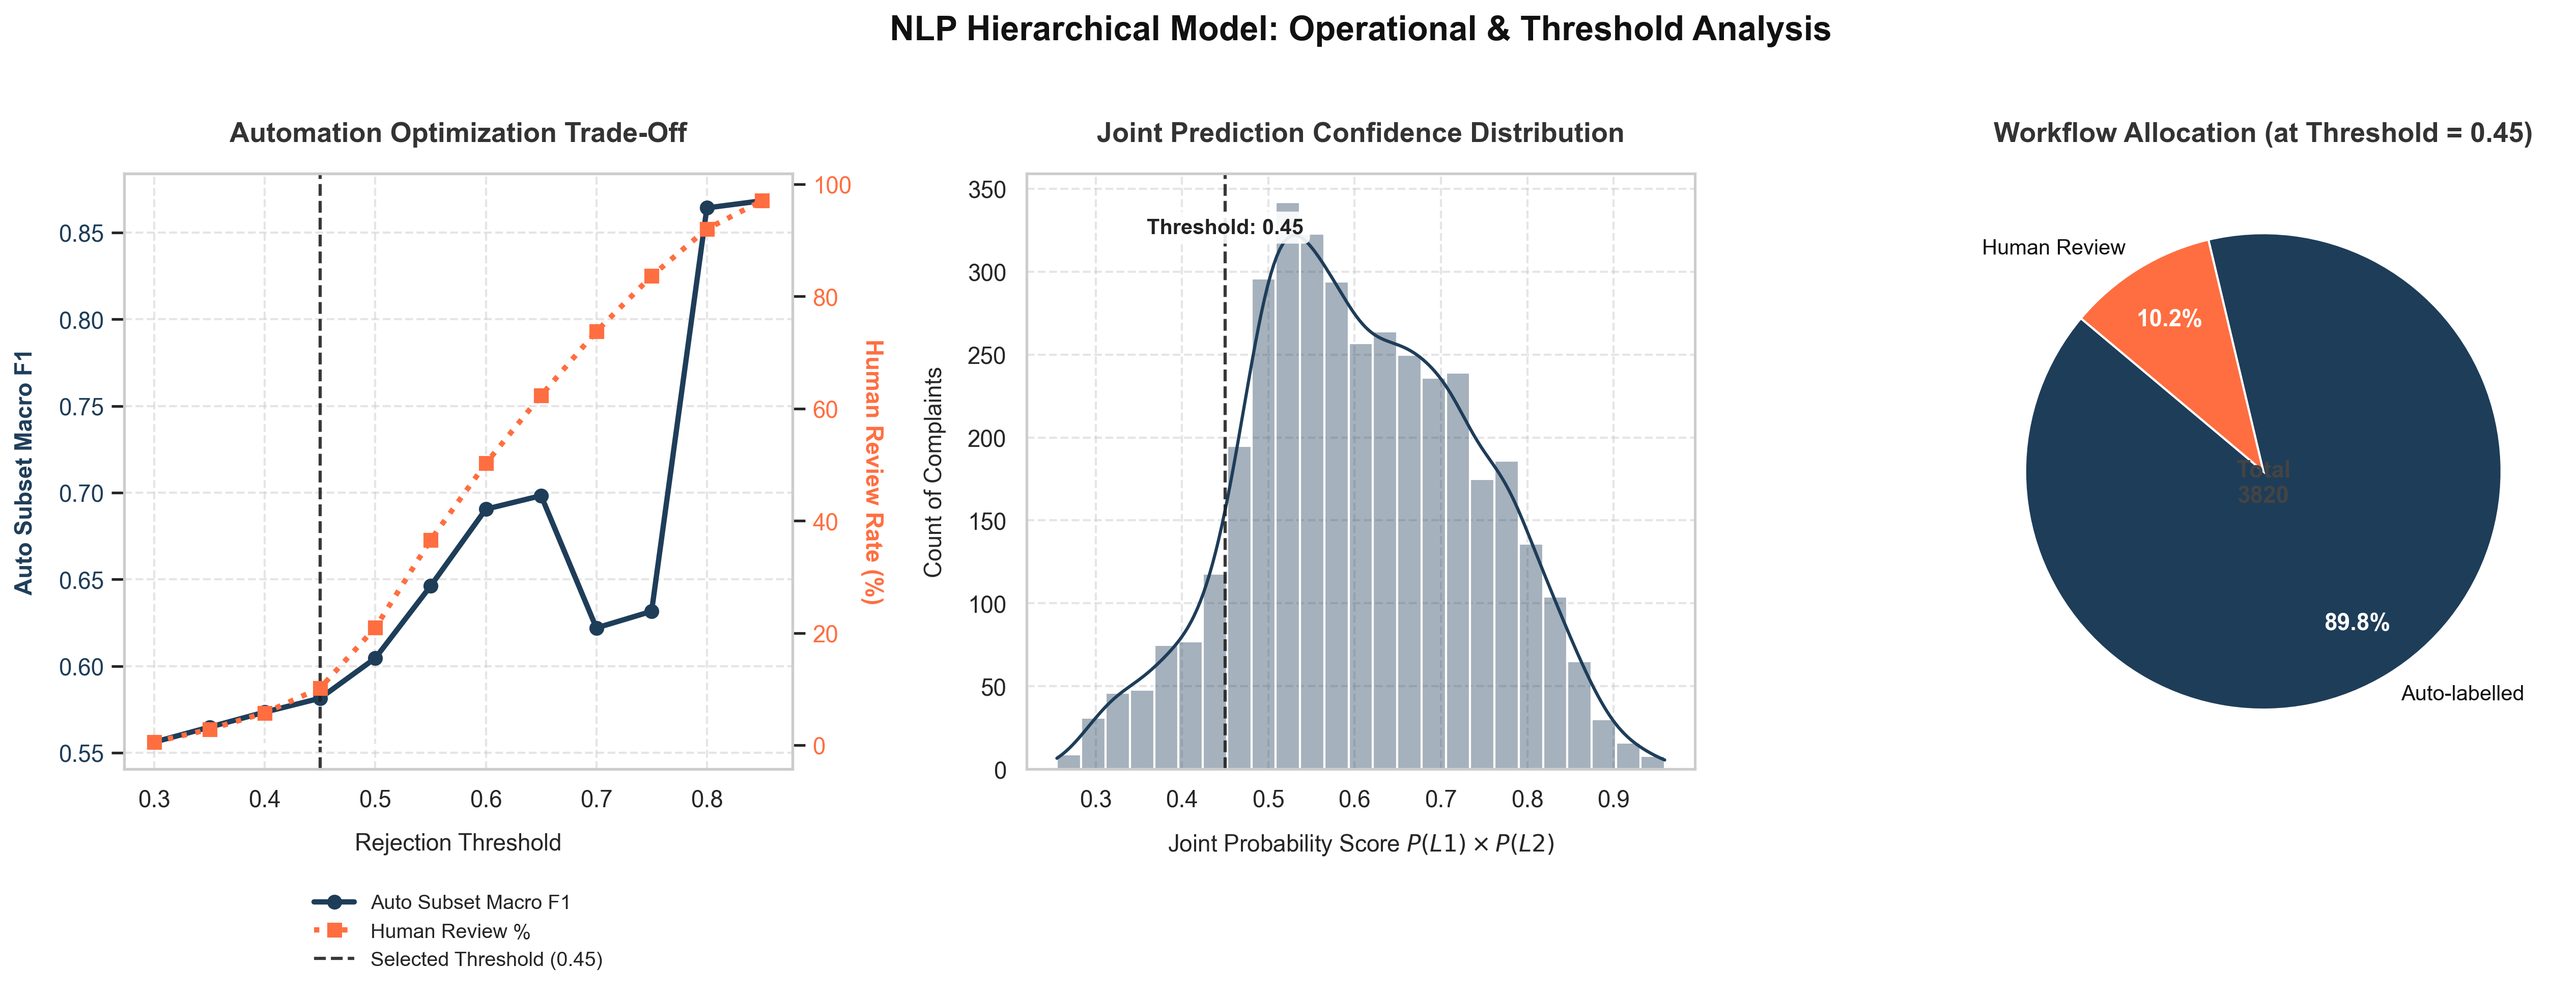
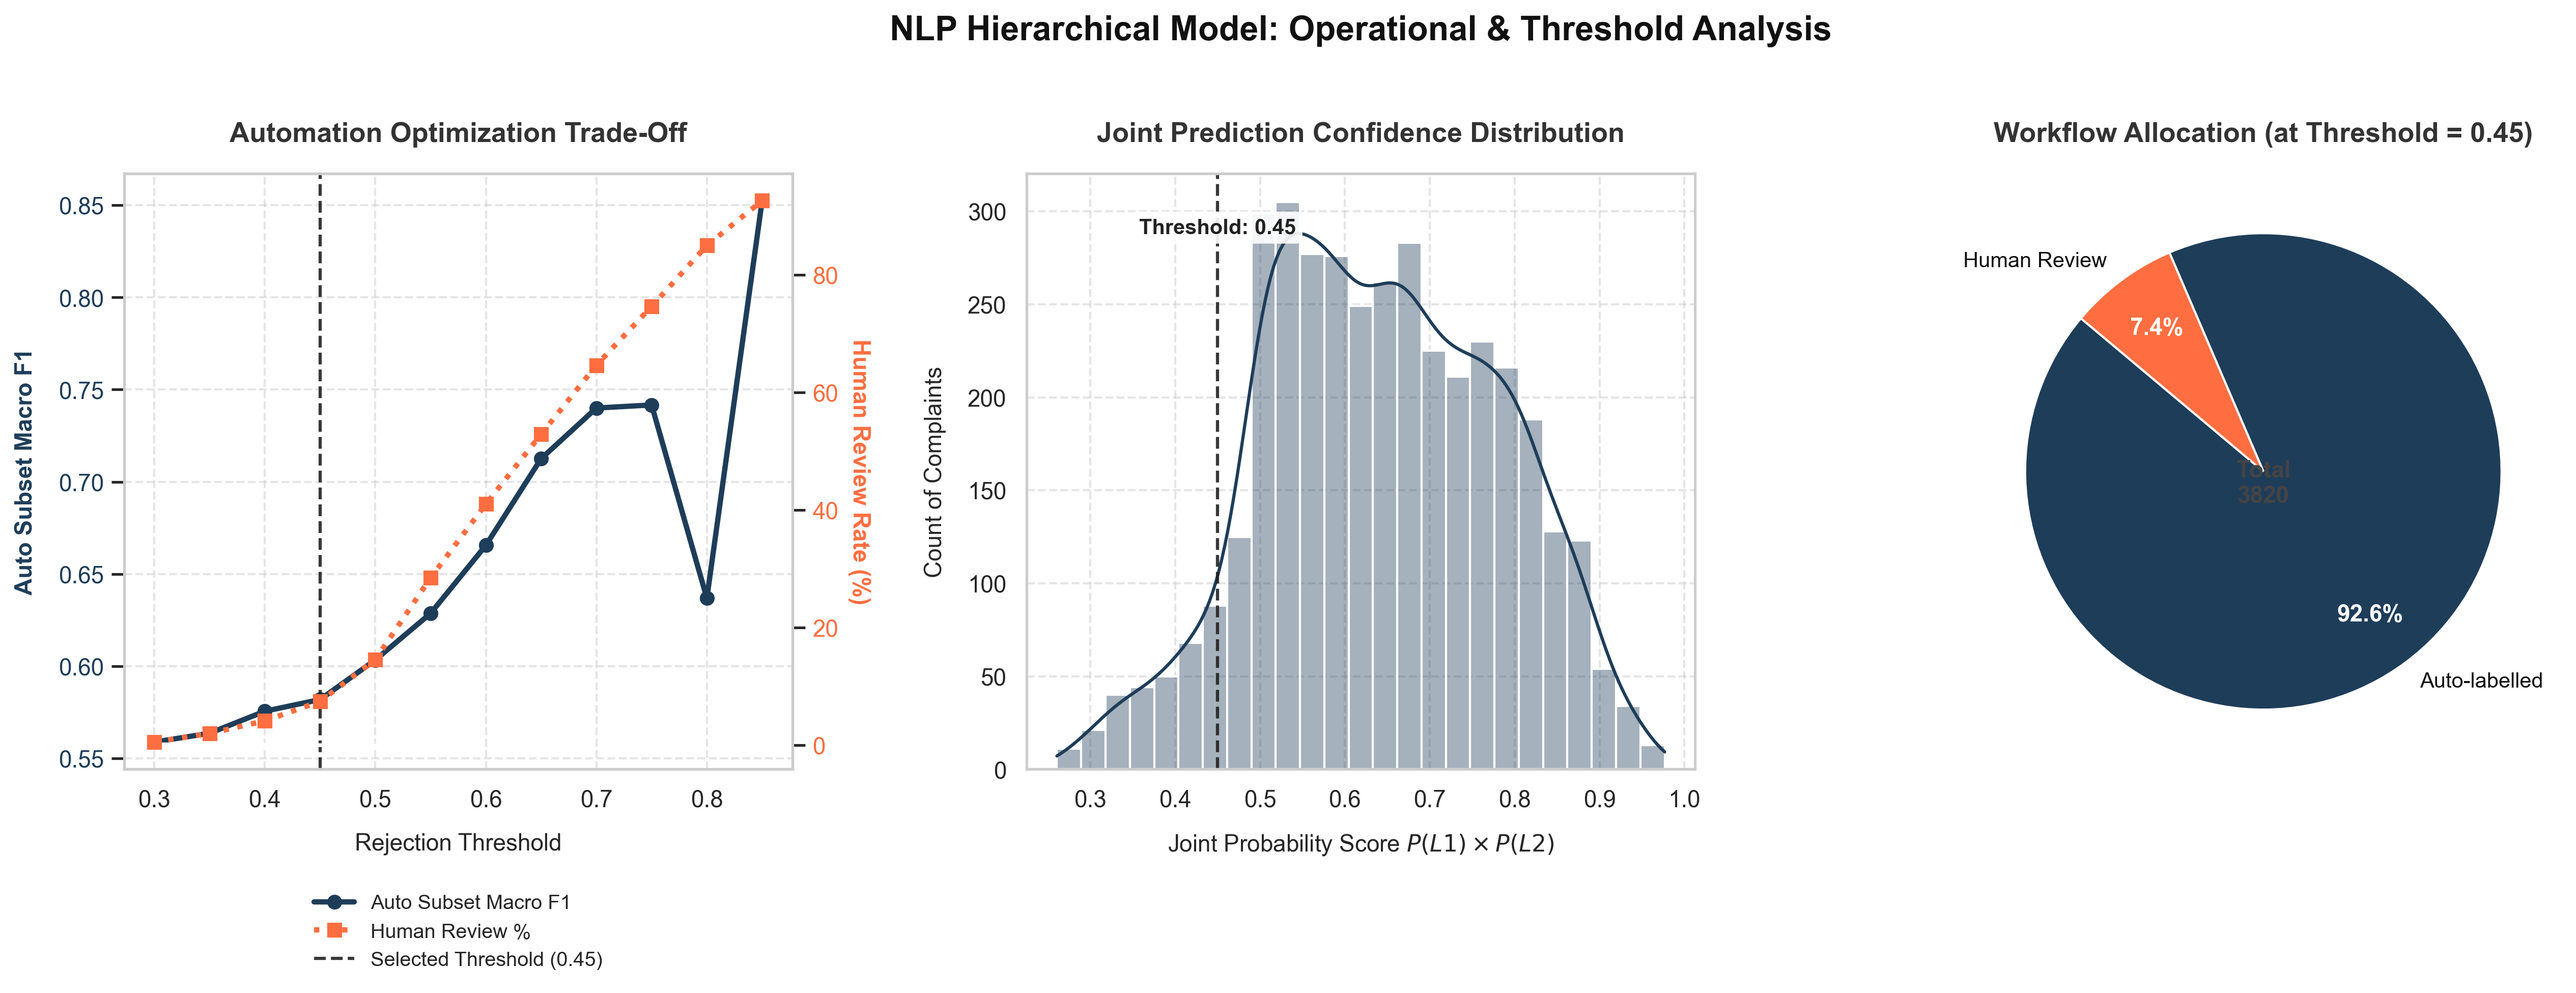
Update model evaluation, training scripts, and dashboard

diff --git a/app/train_and_save_models.py b/app/train_and_save_models.py
@@ -31,7 +31,7 @@ from scipy.sparse import load_npz, hstack, csr_matrix
 from sklearn.linear_model import LogisticRegression
 from sklearn.svm import LinearSVC
 from sklearn.calibration import CalibratedClassifierCV
-from sklearn.model_selection import StratifiedKFold, cross_val_predict
+from sklearn.model_selection import GridSearchCV, StratifiedKFold, cross_val_predict
 
 warnings.filterwarnings("ignore")
 
@@ -46,6 +46,12 @@ GROUPING = {
     "Payment & Repayment Issues": "Loan Servicing & Payments",
 }
 
+# Defined once, candidate grid reused by Level 1 LR and SVC GridSearchCV calls.
+LEVEL1_C_GRID = [0.1, 1.0, 5.0, 10.0, 20.0]
+
+# Defined once, candidate grid reused by both LR and SVC GridSearchCV calls per group below.
+LEVEL2_C_GRID = [0.1, 1.0, 5.0, 10.0, 20.0]
+
 
 def main():
     print("Loading TF-IDF features and training data...")
@@ -59,32 +65,47 @@ def main():
 
     # ------------------------------------------------------------------
     # Level 1: broad issue (LogisticRegression + calibrated LinearSVC)
+    # Grid-searched, same as Level 2, instead of trusting a single fixed C.
     # ------------------------------------------------------------------
-    print("\n[Level 1] Fitting LogisticRegression and calibrated LinearSVC...")
-    lr_broad = LogisticRegression(
-        C=1.0, class_weight="balanced", max_iter=1000, random_state=42
-    )
-    lr_broad.fit(X_train, y_train_broad)
+    print("\n[Level 1] Grid-searching C for LogisticRegression and calibrated LinearSVC...")
 
-    svc_broad = CalibratedClassifierCV(
-        LinearSVC(C=1.0, class_weight="balanced", max_iter=1000, random_state=42),
-        cv=3,
-        method="isotonic",
+    lr_broad_gs = GridSearchCV(
+        LogisticRegression(class_weight="balanced", max_iter=1000, random_state=42),
+        param_grid={"C": LEVEL1_C_GRID}, cv=cv, scoring="f1_macro", n_jobs=-1,
     )
-    svc_broad.fit(X_train, y_train_broad)
+    lr_broad_gs.fit(X_train, y_train_broad)
+    print(f"   [LR]  Best C: {lr_broad_gs.best_params_['C']}  |  CV Macro F1: {lr_broad_gs.best_score_:.4f}")
+    lr_broad = lr_broad_gs.best_estimator_
+    lr_broad_c = lr_broad_gs.best_params_["C"]
+
+    svc_broad_gs = GridSearchCV(
+        CalibratedClassifierCV(
+            LinearSVC(class_weight="balanced", max_iter=1000, random_state=42),
+            cv=3, method="isotonic",
+        ),
+        param_grid={"estimator__C": LEVEL1_C_GRID}, cv=cv, scoring="f1_macro", n_jobs=-1,
+    )
+    svc_broad_gs.fit(X_train, y_train_broad)
+    print(
+        f"   [SVC] Best C: {svc_broad_gs.best_params_['estimator__C']}  "
+        f"|  CV Macro F1: {svc_broad_gs.best_score_:.4f}"
+    )
+    svc_broad = svc_broad_gs.best_estimator_
+    svc_broad_c = svc_broad_gs.best_params_["estimator__C"]
 
     broad_classes = lr_broad.classes_
     print(f"   Broad classes: {list(broad_classes)}")
 
-    # Out-of-fold broad-issue probabilities, used as cascade features for Level 2
+    # Out-of-fold broad-issue probabilities, used as cascade features for Level 2.
+    # Reuses the C values just found above, instead of refitting another grid search.
     print("\n[Level 1] Computing out-of-fold probabilities for feature cascading...")
     oof_lr = cross_val_predict(
-        LogisticRegression(C=1.0, class_weight="balanced", max_iter=1000, random_state=42),
+        LogisticRegression(C=lr_broad_c, class_weight="balanced", max_iter=1000, random_state=42),
         X_train, y_train_broad, cv=cv, method="predict_proba", n_jobs=-1,
     )
     oof_svc = cross_val_predict(
         CalibratedClassifierCV(
-            LinearSVC(C=1.0, class_weight="balanced", max_iter=1000, random_state=42),
+            LinearSVC(C=svc_broad_c, class_weight="balanced", max_iter=1000, random_state=42),
             cv=3, method="isotonic",
         ),
         X_train, y_train_broad, cv=cv, method="predict_proba", n_jobs=-1,
@@ -98,7 +119,7 @@ def main():
     # Level 2: sub-issue classifiers per broad group, with cascaded
     # broad-issue probabilities appended to the TF-IDF features
     # ------------------------------------------------------------------
-    print("\n[Level 2] Fitting sub-issue classifiers per broad group...")
+    print("\n[Level 2] Grid-searching C and fitting sub-issue classifiers per broad group...")
     level2_models = {}
     for broad_group in broad_classes:
         train_mask = train_df["broad_group"] == broad_group
@@ -110,17 +131,50 @@ def main():
         X_train_group = hstack([X_train_tfidf, broad_proba_sp]).tocsr()
         y_train_subgroup = grp_train_df["Subissue_grouped"]
 
-        lr_sub = LogisticRegression(
-            C=1.0, max_iter=1000, class_weight="balanced", random_state=42
+        print(f"\n---> Group: '{broad_group}' ({X_train_group.shape[0]} samples)")
+
+        lr_sub = GridSearchCV(
+            LogisticRegression(max_iter=1000, class_weight="balanced", random_state=42),
+            param_grid={"C": LEVEL2_C_GRID}, cv=cv, scoring="f1_macro", n_jobs=-1,
         )
         lr_sub.fit(X_train_group, y_train_subgroup)
+        print(f"     [LR]  Best C: {lr_sub.best_params_['C']}  |  CV Macro F1: {lr_sub.best_score_:.4f}")
+        lr_sub = lr_sub.best_estimator_
 
-        svc_sub = CalibratedClassifierCV(
-            LinearSVC(C=1.0, max_iter=1000, class_weight="balanced", random_state=42),
-            cv=3,
-            method="isotonic",
+        min_class_count = y_train_subgroup.value_counts().min()
+        safe_cv = min(3, min_class_count)
+        svc_sub = GridSearchCV(
+            CalibratedClassifierCV(
+                LinearSVC(max_iter=1000, class_weight="balanced", random_state=42),
+                cv=safe_cv, method="isotonic",
+            ),
+            param_grid={"estimator__C": LEVEL2_C_GRID}, cv=cv, scoring="f1_macro", n_jobs=-1,
         )
         svc_sub.fit(X_train_group, y_train_subgroup)
+        print(
+            f"     [SVC] Best C: {svc_sub.best_params_['estimator__C']}  "
+            f"|  CV Macro F1: {svc_sub.best_score_:.4f}"
+        )
+        svc_sub = svc_sub.best_estimator_
+
+        # 'Non-Servicing Issues' is a small group (1879 samples). Its grid search
+        # repeatedly lands on the grid's upper edge (5.0 -> 20.0 -> 75.0 across
+        # widened grids) for marginal CV F1 gains (~0.002-0.003), which is plateau
+        # noise, not real signal. We deliberately override to a less-aggressive
+        # C=10.0 for both models here to reduce overfitting risk on this small
+        # group, rather than chase the grid's edge indefinitely.
+        if broad_group == "Non-Servicing Issues":
+            override_c = 10.0
+            print(f"     [Override] Small group plateau: forcing C={override_c} for LR and SVC.")
+            lr_sub = LogisticRegression(
+                C=override_c, max_iter=1000, class_weight="balanced", random_state=42
+            )
+            lr_sub.fit(X_train_group, y_train_subgroup)
+            svc_sub = CalibratedClassifierCV(
+                LinearSVC(C=override_c, max_iter=1000, class_weight="balanced", random_state=42),
+                cv=safe_cv, method="isotonic",
+            )
+            svc_sub.fit(X_train_group, y_train_subgroup)
 
         level2_models[broad_group] = {
             "lr": lr_sub,
@@ -128,8 +182,7 @@ def main():
             "sub_classes": lr_sub.classes_,
         }
         print(
-            f"   -> '{broad_group}': {X_train_group.shape[0]} samples, "
-            f"classes: {list(lr_sub.classes_)}"
+            f"     -> '{broad_group}': classes: {list(lr_sub.classes_)}"
         )
 
     # ------------------------------------------------------------------

diff --git a/NLP_Model_testing/model_evaluation.py b/NLP_Model_testing/model_evaluation.py
@@ -47,13 +47,28 @@ y_test_issue_broad  = y_test_subissue.map(GROUPING)
 # Configuring StratifiedKFold for consistent cross-validation splits
 cv = StratifiedKFold(n_splits=5, shuffle=True, random_state=42)
 
+# C values confirmed via live GridSearchCV in train_and_save_models.py
+# (reproduced identically across 3 separate runs on the same X_train_tfidf.npz).
+# Kept in sync here so evaluation measures the same model that's actually deployed.
+LEVEL1_LR_C = 5.0
+LEVEL1_SVC_C = 1.0
 
-lr_model = LogisticRegression(C=1.0, class_weight='balanced', max_iter=1000, random_state=42)
+# Loan Servicing & Payments: grid search result, used as-is.
+# Non-Servicing Issues: grid search landed on 20.0 (grid edge, plateau ~0.002-0.003
+# F1 gain from 5.0 onward), overridden to 10.0 for lower overfitting risk on this
+# small group (1879 samples). See train_and_save_models.py for the full reasoning.
+LEVEL2_C = {
+    'Loan Servicing & Payments': {'lr': 1.0, 'svc': 0.1},
+    'Non-Servicing Issues':      {'lr': 10.0, 'svc': 10.0},
+}
+
+
+lr_model = LogisticRegression(C=LEVEL1_LR_C, class_weight='balanced', max_iter=1000, random_state=42)
 lr_model.fit(X_train, y_train_issue_broad)
 
 # 2. Calibrated LinearSVC 
 svc_model = CalibratedClassifierCV(
-    LinearSVC(C=1.0, class_weight='balanced', max_iter=1000, random_state=42), 
+    LinearSVC(C=LEVEL1_SVC_C, class_weight='balanced', max_iter=1000, random_state=42), 
     cv=3, 
     method='isotonic'
 )
@@ -68,8 +83,8 @@ avg_proba_broad  = (proba_lr_test + proba_svc_test) / 2.0
 y_pred_broad     = broad_classes[np.argmax(avg_proba_broad, axis=1)]
 level1_confidence = np.max(avg_proba_broad, axis=1)
 # For the training set, we also need the out-of-fold probabilities to use as features for the level 2 sub-issue classifiers
-oof_lr = cross_val_predict(LogisticRegression(C=1.0, class_weight='balanced', max_iter=1000, random_state=42), X_train, y_train_issue_broad, cv=cv, method='predict_proba', n_jobs=-1)
-oof_svc = cross_val_predict(CalibratedClassifierCV(LinearSVC(C=1.0, class_weight='balanced', max_iter=1000, random_state=42), cv=3, method='isotonic'), X_train, y_train_issue_broad, cv=cv, method='predict_proba', n_jobs=-1)
+oof_lr = cross_val_predict(LogisticRegression(C=LEVEL1_LR_C, class_weight='balanced', max_iter=1000, random_state=42), X_train, y_train_issue_broad, cv=cv, method='predict_proba', n_jobs=-1)
+oof_svc = cross_val_predict(CalibratedClassifierCV(LinearSVC(C=LEVEL1_SVC_C, class_weight='balanced', max_iter=1000, random_state=42), cv=3, method='isotonic'), X_train, y_train_issue_broad, cv=cv, method='predict_proba', n_jobs=-1)
 train_broad_proba = (oof_lr + oof_svc) / 2.0
 
 train_df['broad_group'] = y_train_issue_broad.values
@@ -89,10 +104,10 @@ for broad_group in broad_classes:
 
     test_mask = y_pred_broad == broad_group
 
-    lr_sub = LogisticRegression(C=1.0, max_iter=1000, class_weight='balanced', random_state=42)
+    lr_sub = LogisticRegression(C=LEVEL2_C[broad_group]['lr'], max_iter=1000, class_weight='balanced', random_state=42)
     lr_sub.fit(X_train_group, y_train_subgroup)
     
-    svc_sub = CalibratedClassifierCV(LinearSVC(C=1.0, max_iter=1000, class_weight='balanced', random_state=42), cv=3, method='isotonic')
+    svc_sub = CalibratedClassifierCV(LinearSVC(C=LEVEL2_C[broad_group]['svc'], max_iter=1000, class_weight='balanced', random_state=42), cv=3, method='isotonic')
     svc_sub.fit(X_train_group, y_train_subgroup)
 
     if test_mask.sum() > 0:
